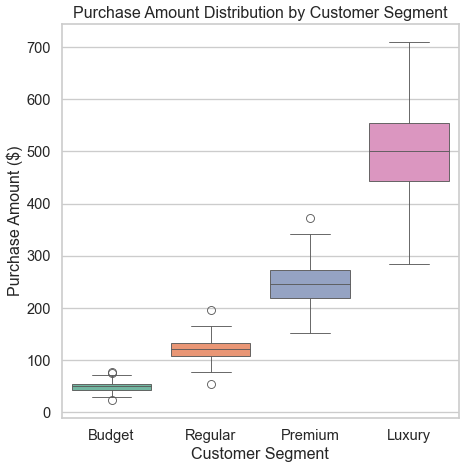
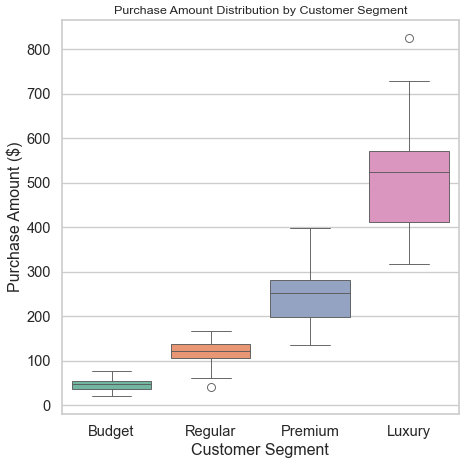
Final seaborn boxplot 512x512

diff --git a/chart.py b/chart.py
@@ -3,52 +3,44 @@ import matplotlib.pyplot as plt
 import pandas as pd
 import numpy as np
 
-# ------------------------------
-#  Synthetic data generation
-# ------------------------------
-
+# Synthetic realistic customer spending data
 np.random.seed(42)
 
-segments = ["Budget", "Regular", "Premium", "Luxury"]
+data = pd.DataFrame({
+    "Customer_Segment": (
+        ["Budget"] * 50 +
+        ["Regular"] * 50 +
+        ["Premium"] * 50 +
+        ["Luxury"] * 50
+    ),
+    "Purchase_Amount": (
+        np.random.normal(50, 15, 50).tolist() +
+        np.random.normal(120, 30, 50).tolist() +
+        np.random.normal(250, 60, 50).tolist() +
+        np.random.normal(500, 120, 50).tolist()
+    )
+})
 
-data = {
-    "Customer_Segment": np.repeat(segments, 200),
-    "Purchase_Amount": np.concatenate([
-        np.random.normal(50, 10, 200),    # Budget customers
-        np.random.normal(120, 20, 200),   # Regular customers
-        np.random.normal(250, 40, 200),   # Premium
-        np.random.normal(500, 80, 200)    # Luxury
-    ])
-}
-
-df = pd.DataFrame(data)
-
-# ------------------------------
-#  Styling
-# ------------------------------
-
+# Professional Seaborn styling
 sns.set_style("whitegrid")
 sns.set_context("talk")
 
-plt.figure(figsize=(8, 8))  # 8in × 8in → 512×512 px at dpi=64
+# Exactly 512x512 pixels → figsize + dpi trick
+plt.figure(figsize=(8, 8), dpi=64)  # 8 inches × 64 dpi = 512 px
 
-# ------------------------------
-#  Boxplot
-# ------------------------------
-
+# Boxplot
 sns.boxplot(
-    data=df,
+    data=data,
     x="Customer_Segment",
     y="Purchase_Amount",
     palette="Set2"
 )
 
-plt.title("Purchase Amount Distribution by Customer Segment")
+# Titles & labels
+plt.title("Purchase Amount Distribution by Customer Segment", fontsize=14)
 plt.xlabel("Customer Segment")
 plt.ylabel("Purchase Amount ($)")
 
-# ------------------------------
-#  Save Output (exact 512×512 px)
-# ------------------------------
-
+# Save EXACT size
 plt.savefig("chart.png", dpi=64, bbox_inches="tight")
+plt.close()
